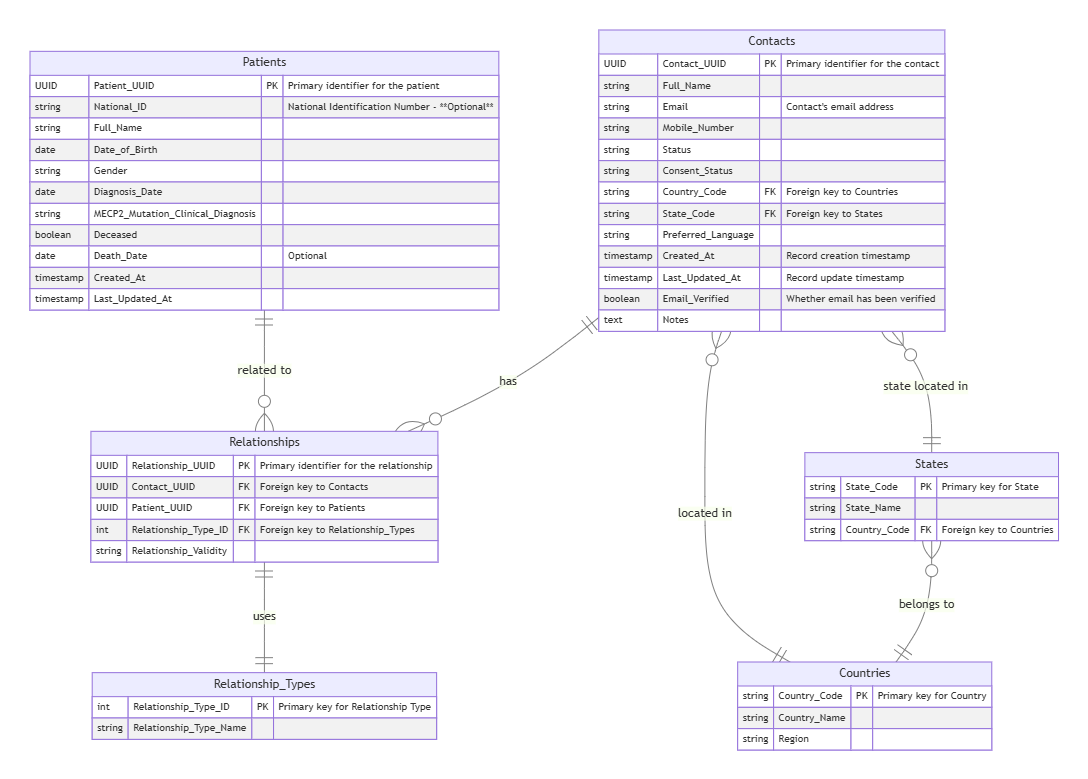
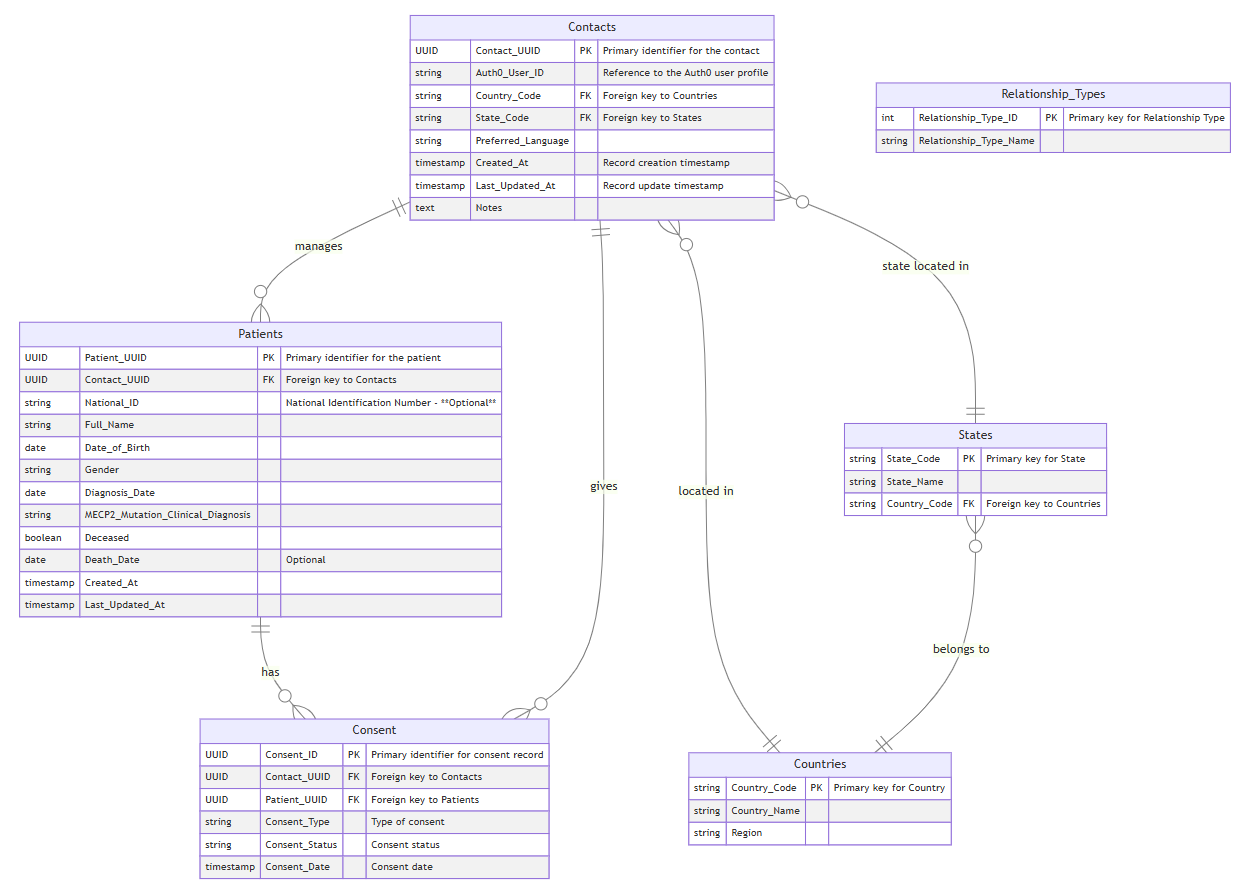
Updated content with new design

diff --git a/README.md b/README.md
@@ -10,10 +10,7 @@ L-1650 Luxembourg
 ## Table of Contents
 
 - [Overview](./docs/01-Overview.md)
-- [Public Onboarding Form](./docs/02-OnboardingForm.md)
-- [Staging Database](./docs/03-StagingDatabase.md)
-- [Processing Data](./docs/04-ProcessingData.md)
-- [Master Data](./docs/05-MasterData.md)
+- [Data model](./docs/05-MasterData.md)
 - [Backoffice CRUD](./docs/06-BackofficeCRUD.md)
 - [Longitudinal Data](./docs/07-LogitudinalData.md)
 - [Survey Management](./docs/08-SurveyManagement.md)
